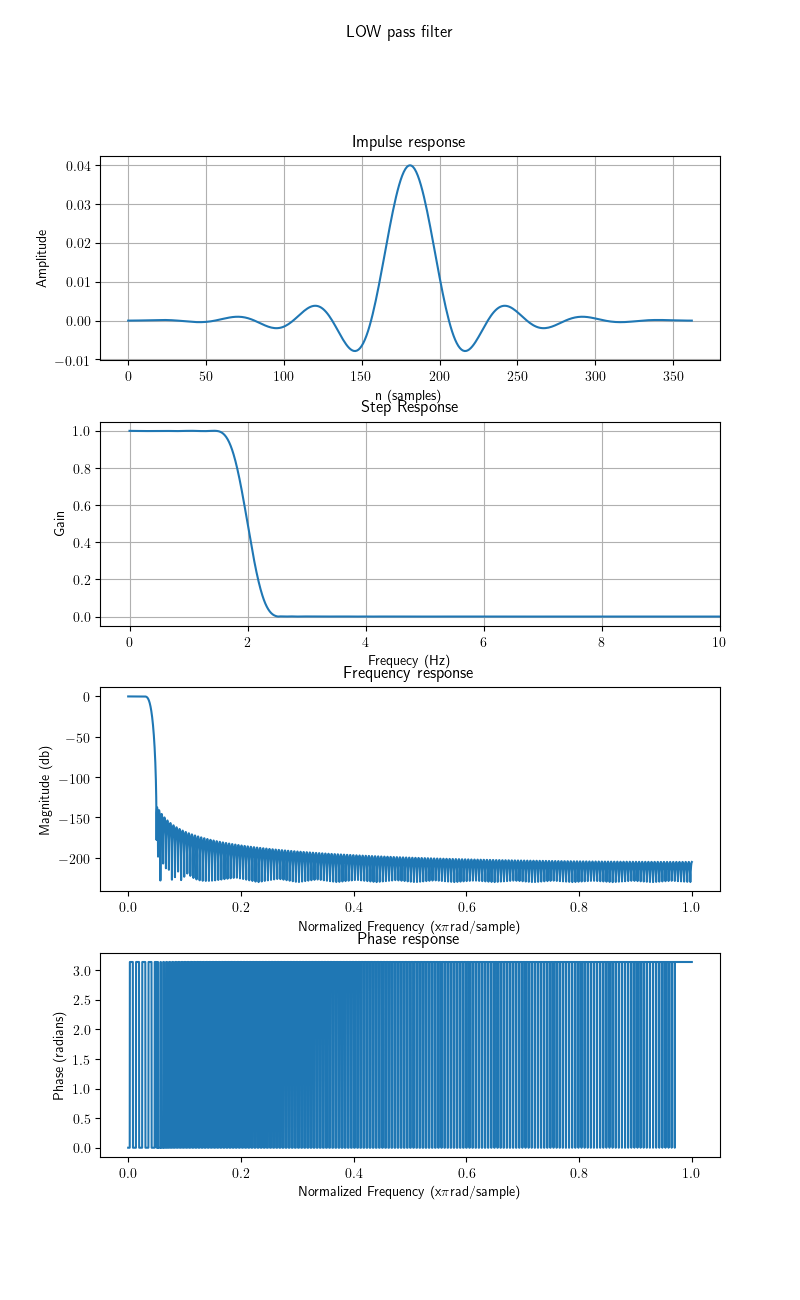
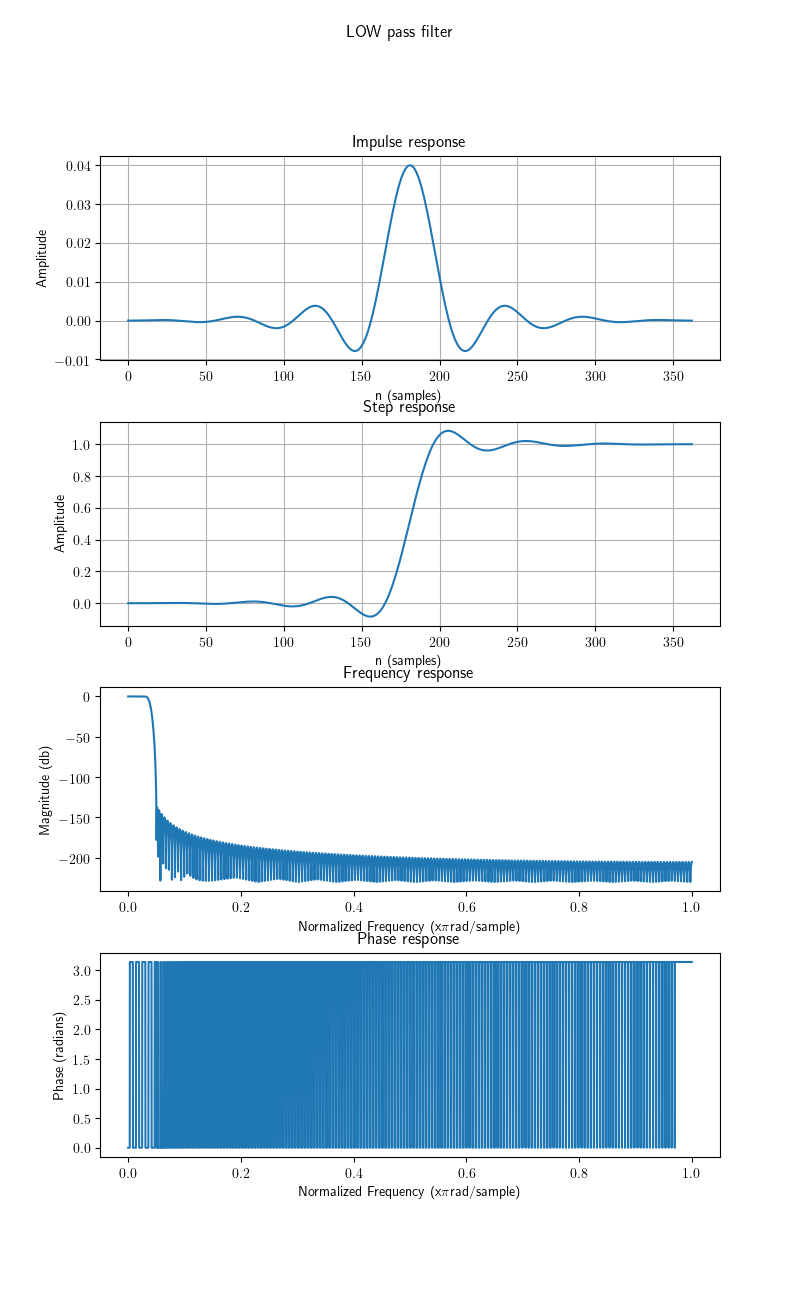
new plots

diff --git a/lti_system.py b/lti_system.py
@@ -1,7 +1,7 @@
 import numpy as np
 import matplotlib.pyplot as plt
 import seaborn as se
-from scipy.signal import kaiserord, lfilter, firwin, freqz, firls
+from scipy.signal import kaiserord, lfilter, firwin, freqz, firls, step2
 from plot import gen_frequesyresponse, movingmedian_plot, avrage_data
 from importdata import data
 
@@ -71,6 +71,10 @@ class fir_filter:
         self._good_signal = self._filterd_x[self._N-1:]
         self._supblot_limmits = list()
         m,s = self.get_statistics()
+        # Step responce for the lit system.
+        self._responce = False
+
+
 
     def get_statistics(self):
         median = np.median(self._good_signal)
@@ -155,6 +159,7 @@ class fir_filter:
         impulse[0] = 1
         x = np.arange(0,l)
         response = lfilter(self._taps,1,impulse)
+        self._responce = response
         #plt.stem(x, response)
         plt.plot(x, response)
         # plt.plot(x, np.sin(x))
@@ -179,6 +184,22 @@ class fir_filter:
         plt.plot(self._taps, 'bo-', linewidth=2)
         plt.title("Filter Coefficeents ({} taps)".format(self._N))
         plt.grid()
+
+    def plot_step_responce(self, subplot=False):
+        if not isinstance(subplot, bool):
+            plt.subplot(subplot)
+        if not isinstance(self._responce, bool):
+            self._step = np.cumsum(self._responce)
+            x = np.arange(0,len(self._step))
+            plt.plot(x, self._step)
+            plt.grid(True)
+            plt.ylabel('Amplitude')
+            plt.xlabel(r'n (samples)')
+            plt.title(r'Step response')
+        else:
+            print("self._responce={}".format(self._responce))
+            assert(False)
+
 
 
     def __str__(self):
@@ -222,8 +243,10 @@ def plot_lit_sytem(data, walk_run='walk', signalnr=4, cutoff_hz=2.0, savefig='pl
     shape = 410
     fir.plot_impulse_response(subplot=shape + count)
     count += 1
-    fir.plot_magnitude(shape + count)
+    fir.plot_step_responce(subplot=shape + count)
     count += 1
+    # fir.plot_magnitude(shape + count)
+    # count += 1
     fir.plot_frequesy_response(shape + count)
     count += 1
     fir.plot_phase_response(shape+count)
